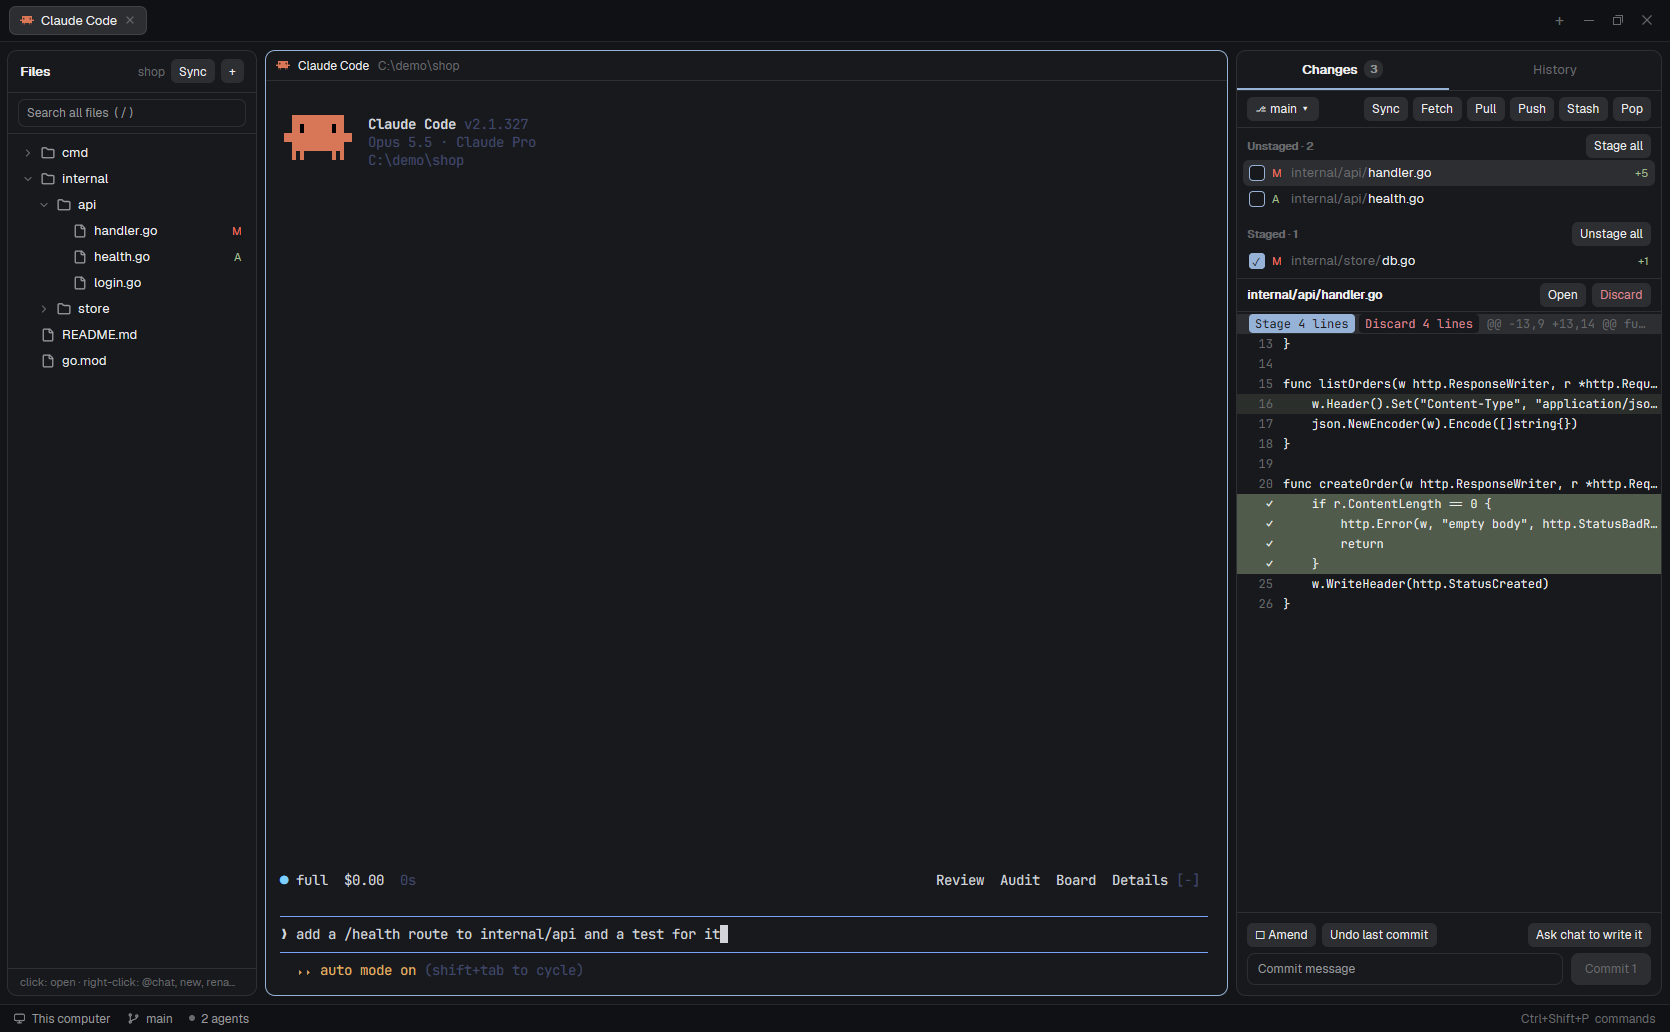
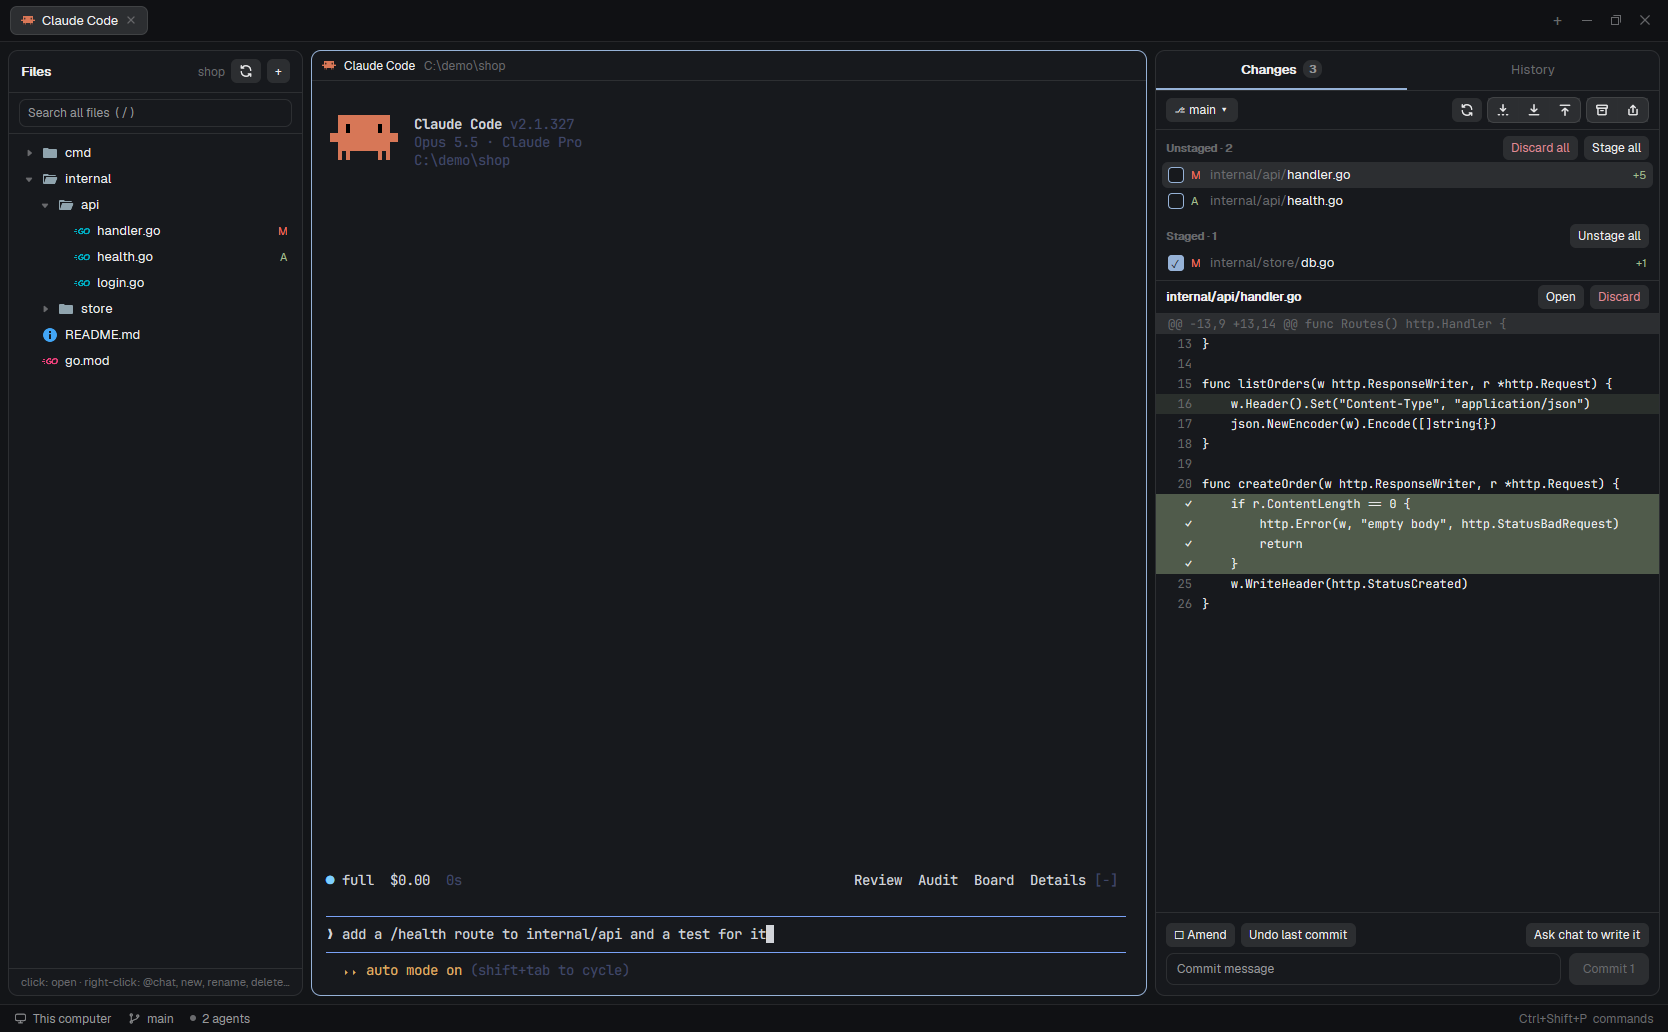
Files: CSV as a searchable table; list folders outside home again; new README shots
- A .csv / .tsv opens as a table: Find filters rows, Separator is guessed and can be retyped,
  Table switches to the text; my-files.table and my-files.separator:<s>
- readdir only reaches the home folder: other roots (C:\demo) are listed by PowerShell/sh again
- README: overview and History screenshots of the current panels

diff --git a/mods/my-files/main.js b/mods/my-files/main.js
@@ -29,11 +29,15 @@ export default class Files extends View {
     this.find.on("submit", (_e, cx) => this.findNext(cx));
     this.find.on("focus", (_e, cx) => { this.typing = "find"; cx.notify(); });
     this.find.on("blur", (_e, cx) => { this.typing = null; cx.notify(); });
+    this.find.on("change", (_e, cx) => { if (this.mode === "table") cx.notify(); }); // the table filters as you type
     this.replaceIn = InputState.new({ placeholder: "Replace with" });
     this.replaceIn.on("submit", (_e, cx) => this.replaceOne(cx));
     this.nameInput = InputState.new({ placeholder: "Name" });
     this.nameInput.on("submit", (_e, cx) => this.fileOp(this.nameAction, cx));
-    for (const [state, name] of [[this.replaceIn, "replace-in"], [this.nameInput, "name"]]) {
+    // A CSV table's separator: typing another one splits the table again.
+    this.sepIn = InputState.new({ placeholder: "auto" });
+    this.sepIn.on("change", (_e, cx) => { if (this.mode === "table" && this.sepIn.value() !== this.table?.sep) { this.makeTable(); cx.notify(); } });
+    for (const [state, name] of [[this.replaceIn, "replace-in"], [this.nameInput, "name"], [this.sepIn, "sep"]]) {
       state.on("focus", (_e, cx) => { this.typing = name; cx.notify(); });
       state.on("blur", (_e, cx) => { this.typing = null; cx.notify(); });
     }
@@ -62,6 +66,8 @@ export default class Files extends View {
       history: () => this.file && this.showHistory(cx),
       send: () => (arg || this.file) && this.send(arg || this.file, cx),
       "send-code": () => this.code && this.sendCode(cx), // the selected code, with its file and lines
+      table: () => this.isTable() && this.showTable(cx), // a CSV as a table, or back to its text
+      separator: () => { this.sepIn.set_value(arg); if (this.mode === "table") this.makeTable(); },
       "replace-in-file": () => { const [q, to] = arg.split("|"); this.find.set_value(q); this.replaceIn.set_value(to ?? ""); this.replaceEvery(cx); },
       menu: () => this.openMenu(arg, cx),
       "new-file": () => this.nameThen("new-file", arg, cx),
@@ -117,6 +123,29 @@ export default class Files extends View {
     return out;
   }
 
+  // A CSV as a table: its first row the header, the rest filtered by Find (any cell, any
+  // case), only the rows on screen built; wide tables scroll sideways.
+  tableView(t, font) {
+    const tb = this.table, q = this.find.value().trim().toLowerCase();
+    if (tb.q !== q) {
+      tb.q = q; tb.shown = [];
+      for (let i = 1; i < tb.rows.length; i++) if (!q || tb.rows[i].some((c) => c.toLowerCase().includes(q))) tb.shown.push(i);
+    }
+    const line = (cells, n, head) => h_flex().h(20).flex_none().items_center().when(head, (e) => e.bg(t.raised).font_semibold())
+      .child(div().w(44).flex_none().px(6).text_right().text_color(t.dim).child(head ? "" : String(n)))
+      .children(tb.widths.map((w, j) => div().w(w).flex_none().px(6).truncate().child((cells[j] ?? "").replace(/\r?\n/g, " ↵ "))));
+    // min_w(0) down to the scroll box: a wide table scrolls inside the panel, not widens it.
+    return v_flex().flex_1().min_h(0).w_full().min_w(0)
+      .child(h_flex().flex_none().px(10).py(4).gap(6).items_center().text_size(12).text_color(t.dim).border_b(1).border_color(t.border)
+        .child("Separator").child(div().w(64).child(textInput("files-sep", this.sepIn, this.typing === "sep", t)))
+        .child(div().flex_1()).child(`${tb.shown.length}${q ? ` of ${Math.max(0, tb.rows.length - 1)}` : ""} rows`))
+      .child(div().flex_1().min_h(0).w_full().min_w(0).relative()
+        .child(div().id("files-table-x").size_full().overflow_x_scrollbar()
+          .child(v_flex().w(44 + tb.widths.reduce((a, b) => a + b, 0)).h_full().font_family(font).text_size(12)
+            .child(line(tb.rows[0] ?? [], 0, true))
+            .child(lazyRows("files-table", tb.shown.length, (i) => line(tb.rows[tb.shown[i]], tb.shown[i], false), { font })))));
+  }
+
   fileBody(t) {
     if (!this.code) return div().p(12).text_color(t.dim).child(this.fileError || "Loading file…");
     if (this.mode === "edit") {
@@ -133,8 +162,9 @@ export default class Files extends View {
           .on_mouse_down_out((_e, cx) => { this.codeMenu = null; cx.notify(); })
           .child(iconButton("code-send", "mods/my-files/icon-chat.svg", "Send to chat", t, (_e, cx) => this.sendCode(cx)))));
     }
-    if (!this.rows) return div().p(12).text_color(t.dim).child("Loading…");
     const font = settings().font_family ?? "JetBrains Mono";
+    if (this.mode === "table" && this.table) return this.tableView(t, font);
+    if (!this.rows) return div().p(12).text_color(t.dim).child("Loading…");
     if (this.mode === "blame") {
       const rows = this.rows;
       return lazyRows("files-blame", rows.length, (i) => {
@@ -186,6 +216,7 @@ export default class Files extends View {
         .when(this.isRepo, el => el.child(buttonGroup(t, [
           tool("blame", "blame", "Blame", (_e, cx) => this.showBlame(cx), { active: this.mode === "blame" }),
           tool("history", "history", "History", (_e, cx) => this.showHistory(cx), { active: this.mode === "history" || this.mode === "commit" })])))
+        .when(this.isTable() && Boolean(this.code), el => el.child(tool("table", "table", "Table", (_e, cx) => this.showTable(cx), { active: this.mode === "table" })))
         .child(tool("send", "chat", "Chat", (_e, cx) => this.send(file, cx)))
         .when(!this.readonly && Boolean(this.code), el => el.child(tool("replace-toggle", "replace", "Replace", (_e, cx) => { this.showReplace = !this.showReplace; cx.notify(); }, { active: this.showReplace }))
           .child(div().flex_1())

diff --git a/mods/my-files/editor.js b/mods/my-files/editor.js
@@ -2,7 +2,7 @@
 import { EditorState } from "gpui-base";
 import { readTextFile, writeTextFile, theme, settings } from "herdr";
 import { READ, git, toLines, untab, diffRows, sendToChat } from "./common.js";
-import { usesTabs, tabsToSpaces, spacesToTabs, replaceAll, snippet } from "./text.js";
+import { usesTabs, tabsToSpaces, spacesToTabs, replaceAll, snippet, parseCsv, guessSeparator } from "./text.js";
 
 export const LANG = { ts: "js", tsx: "js", mts: "js", cts: "js", jsx: "js", mjs: "js", toml: "yaml", jsonc: "json", svelte: "html", vue: "html" };
 export const MAX_EDIT = 400000;
@@ -28,6 +28,31 @@ export const editorMethods = {
   close() {
     this.code?.release(); this.code = null; this.file = null; this.fileError = null; this.mode = "edit";
     this.rows = null; this.note = null; this.confirmClose = false; this.codeMenu = null;
+    this.table = null; this.sepIn.set_value(""); // the next CSV finds its own separator
+  },
+
+  // CSV / TSV: the open file as a table (Find filters its rows, Separator splits it).
+  isTable() { return /\.(csv|tsv)$/i.test(this.file ?? ""); },
+
+  showTable(cx) {
+    if (this.mode === "table" || !this.code) { this.mode = "edit"; cx?.notify(); return; }
+    this.mode = "table"; this.makeTable(); cx?.notify();
+  },
+
+  // Parses the text as it is now (unsaved edits too). An empty Separator box guesses one and
+  // shows it; "tab" (or \t) is a tab.
+  makeTable() {
+    const text = this.tabs ? spacesToTabs(this.code.value()) : this.code.value(), typed = this.sepIn.value();
+    const sep = typed === "tab" || typed === "\\t" ? "\t" : typed ? typed[0] : guessSeparator(text), named = sep === "\t" ? "tab" : sep;
+    const rows = parseCsv(text, sep), head = rows.slice(0, 200);
+    let cols = 0;
+    for (const r of rows) if (r.length > cols) cols = r.length; // a later row may have more cells
+    // Sized by the first 200 rows: about 7px a character in the 12px code font, 40 to 320.
+    const longest = (j) => Math.max(0, ...head.map((r) => (r[j] ?? "").length));
+    const widths = Array.from({ length: cols }, (_, j) => { const n = longest(j); return n ? Math.min(320, Math.max(40, 14 + 7 * n)) : 120; });
+    // sep: what the box shows for it, so the box's change event (main.js) knows this one is made.
+    this.table = { rows, widths, q: null, shown: [], sep: named };
+    if (!typed) this.sepIn.set_value(named);
   },
 
   // Files under the tree's folder are kept relative; Changes may send a repo file
@@ -65,6 +90,7 @@ export const editorMethods = {
         this.code.on("change", (_e, cx) => { const d = this.dirty(); if (d !== this.wasDirty) { this.wasDirty = d; cx.notify(); } });
         this.wasDirty = false;
         if (pos) this.goTo(pos);
+        else if (this.isTable()) this.showTable();
       } catch (e) { if (this.file === path && this.current(context)) this.fileError = `Cannot open this file: ${e}`; }
       finally { cx.notify(); }
     });
@@ -84,6 +110,7 @@ export const editorMethods = {
     this.shown = code.value(); this.wasDirty = false;
     const n = this.shown.length;
     code.set_selected_range({ start: Math.min(at.start, n), end: Math.min(at.end, n) });
+    if (this.mode === "table") this.makeTable();
   },
 
   // Puts the cursor at the start of { line }, selecting { word } on it.
@@ -135,6 +162,7 @@ export const editorMethods = {
     const q = this.find.value(), r = this.code?.selected_range();
     if (!q || !r || this.readonly) return;
     if (this.code.value().slice(r.start, r.end).toLowerCase() === q.toLowerCase()) this.code.replace(this.replaceIn.value());
+    if (this.mode === "table") this.makeTable(); // the table shows the text as it is now
     this.findNext(cx);
   },
 
@@ -143,6 +171,7 @@ export const editorMethods = {
     if (!q || !this.code || this.readonly) return;
     const { text, n } = replaceAll(this.code.value(), q, this.replaceIn.value());
     if (n) this.code.set_value(text);
+    if (n && this.mode === "table") this.makeTable();
     this.wasDirty = this.dirty(); this.note = n ? `Replaced ${n} in this file: save to keep it` : `“${q}” not found`;
     cx.notify();
   },

diff --git a/mods/my-files/tree.js b/mods/my-files/tree.js
@@ -1,5 +1,5 @@
-// Files: listing folders (in-process here; sh or PowerShell on another machine) and the refresh.
-import { exec } from "herdr";
+// Files: listing folders (in-process where readdir reaches, else sh or PowerShell) and the refresh.
+import { exec, window } from "herdr";
 import { readdir } from "fs/promises";
 import { location, locationKey, READ, watchWhile } from "./common.js";
 
@@ -8,8 +8,8 @@ export const PER_FOLDER = 500, TOTAL = 5000;
 // PowerShell takes a 'single-quoted' string with its quote marks (curly ones too) doubled.
 export const psQuote = (s) => "'" + s.replace(/['‘’‚‛]/g, "$&$&") + "'";
 
-// A Windows machine without sh (another machine: readdir is local only): several folders
-// in one PowerShell (UTF-8 output, links checked), as starting it costs 0.3s to 2s.
+// Windows where readdir can't reach (another machine, a folder outside home): several
+// folders in one PowerShell (UTF-8 output, links checked), as starting it costs 0.3s to 2s.
 export async function windowsDirectories(root, rels, on, deep) {
   const script = "[Console]::OutputEncoding = [System.Text.UTF8Encoding]::new($false); & { param($root, $deep, [string[]]$rels) "
     + "function L($p) { ,@(Get-ChildItem -LiteralPath $p -Force -ErrorAction Stop | Where-Object Name -ne '.git' | Select-Object -First 501 | ForEach-Object { @{ name=$_.Name; dir=($_.PSIsContainer -and (-not ($_.Attributes -band [IO.FileAttributes]::ReparsePoint) -or -not $_.LinkType -or ($_.Target -and [IO.Directory]::Exists(([IO.Path]::Combine([IO.Path]::GetDirectoryName($_.FullName), $_.Target[0])))))) } }) } "
@@ -35,10 +35,14 @@ async function localDirectory(path, links) {
   return Promise.all(list.map(async (e) => ({ name: e.name, dir: await isDir(e) })));
 }
 
+// Roots readdir can't read (a mod's readdir reaches the home folder, not C:\demo, say): those
+// are listed by a program, as before.
+const noReaddir = new Set();
+
 // Folders under root, by path from root ("" is root) → their entries, or null when gone.
 // `deep` lists each folder's subfolders too (the first 40), so opening one shows at once.
 export async function directories(root, rels, on, deep) {
-  if (!on) {
+  if (!on && !noReaddir.has(root)) {
     const out = new Map();
     await Promise.all(rels.map(async (rel) => {
       const entries = await localDirectory(rel ? `${root}/${rel}` : root, true);
@@ -48,8 +52,10 @@ export async function directories(root, rels, on, deep) {
         if (list && !out.has(sub)) out.set(sub, list);
       }));
     }));
-    return out;
+    if (out.get("") !== null) return out; // no root asked (a folder opened), or it was read
+    noReaddir.add(root);
   }
+  if (!on && window()?.platform === "windows") return windowsDirectories(root, rels, on, deep);
   const out = new Map();
   for (const rel of rels) {
     try { out.set(rel, await directory(rel ? `${root}/${rel}` : root, on)); }

diff --git a/mods/my-files/text.js b/mods/my-files/text.js
@@ -18,6 +18,36 @@ export function snippet(path, text, start, end) {
   return `${path}:${from === to ? from : `${from}-${to}`}\n${fence}${lang}\n${code}\n${fence}\n`;
 }
 
+// CSV text → rows of cells, split on `sep`. A cell in "..." may hold sep, line breaks
+// and "" (one quote); CRLF and a last empty line are fine.
+export function parseCsv(text, sep) {
+  const rows = [];
+  let row = [], cell = "", quoted = false;
+  for (let i = 0; i < text.length; i++) {
+    const c = text[i];
+    if (quoted) {
+      if (c !== '"') cell += c;
+      else if (text[i + 1] === '"') { cell += '"'; i++; }
+      else quoted = false;
+    } else if (c === '"' && cell === "") quoted = true;
+    else if (c === sep) { row.push(cell); cell = ""; }
+    else if (c === "\n" || c === "\r") {
+      if (c === "\r" && text[i + 1] === "\n") i++;
+      row.push(cell); rows.push(row); row = []; cell = "";
+    } else cell += c;
+  }
+  if (cell !== "" || row.length) { row.push(cell); rows.push(row); }
+  return rows;
+}
+
+// The separator the first line uses most: , ; tab or | (outside quotes); "," if none.
+export function guessSeparator(text) {
+  const line = text.slice(0, text.search(/\r?\n|$/)).replace(/"[^"]*"/g, "");
+  let best = ",", most = 0;
+  for (const s of [",", ";", "\t", "|"]) { const n = line.split(s).length - 1; if (n > most) { best = s; most = n; } }
+  return best;
+}
+
 // q found literally, in any case.
 const literal = (q) => new RegExp(q.replace(/[.*+?^${}()|[\]\\]/g, "\\$&"), "gi");
 

diff --git a/README.md b/README.md
@@ -133,6 +133,10 @@ rm -rf "$APP/mods/my-files" "$APP/mods/my-changes" "$APP/layouts/my-herdr.json"
   **All** replaces every one in the file (then Save).
 - Tab-indented files (Go) show their tabs as 4 spaces (the editor draws a tab as
   nothing) and are saved with tabs again.
+- A `.csv` / `.tsv` file opens as a table (first row as the header). **Find in file**
+  keeps the rows that contain the text; **Separator** is guessed (`,` `;` tab `|`),
+  type another one (`tab` for a tab) to split it again. **Table** switches to its text
+  to edit.
 - **Search all files** (`/`): every text file, tracked or not; click a hit to open
   the file at that line.
 - **Replace across files**: after a search, type the new text under it and
@@ -217,7 +221,7 @@ or script them: `herdr-app do my-changes.pull`.
 
 - `my-files.<cmd>`: `sync`, `toggle:<folder>`, `open:<path>[:<line>]`, `save`, `close`, `find:<text>`,
   `replace-in-file:<text>|<new>`, `search:<text>`, `replace-all:<new>`, `blame`,
-  `history`, `send[:<path>]`, `send-code`, `type:<text>`, `menu:<path>` then `new-file:<name>`,
+  `history`, `send[:<path>]`, `send-code`, `table`, `separator:<s>`, `type:<text>`, `menu:<path>` then `new-file:<name>`,
   `new-folder:<name>`, `rename:<name>` or `delete` (twice)
 - `my-changes.<cmd>`: `sync`, `select:<path>` (or `select:staged:<path>` /
   `select:unstaged:<path>`), `stage`, `stage-all`, `unstage-all`, `hunk:<n>`,
@@ -242,8 +246,8 @@ Example `keys.json` section:
 - History shows the last 500 commits; its search looks in those.
 - Every git call starts a program (about 25 ms here, more on slow machines): the
   panels show what they expect first and read in the background, but an action
-  still waits for its own git. Folders on this computer are listed in-process; a
-  space on another machine lists them with sh (or PowerShell), which is slower.
+  still waits for its own git. Folders under your home folder are listed in-process;
+  others (`C:\demo`, a space on another machine) with PowerShell or sh, which is slower.
 - A file with both CRLF and LF line endings is saved with CRLF on every line.
 
 ## Code
